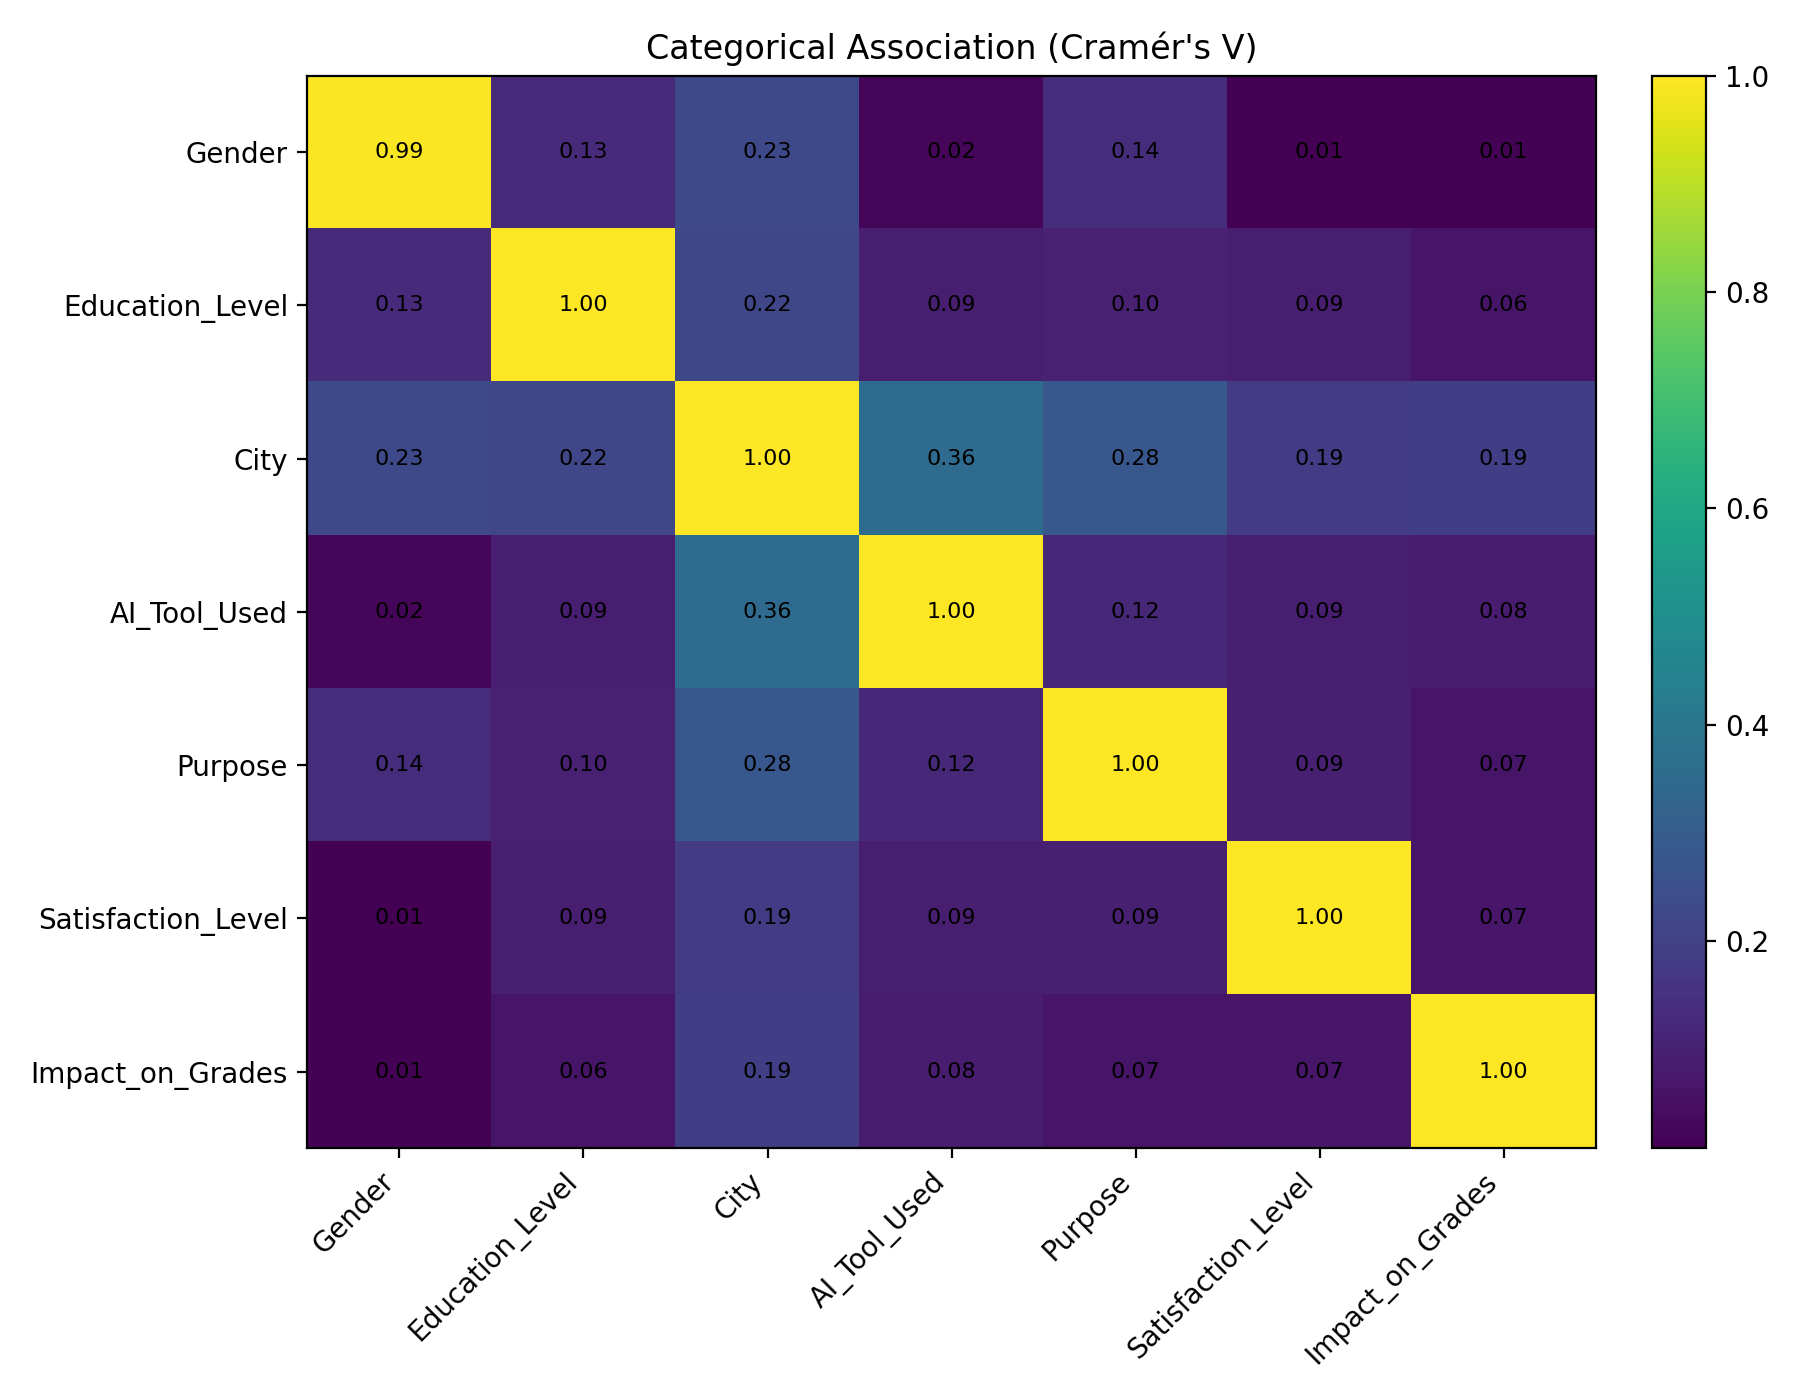
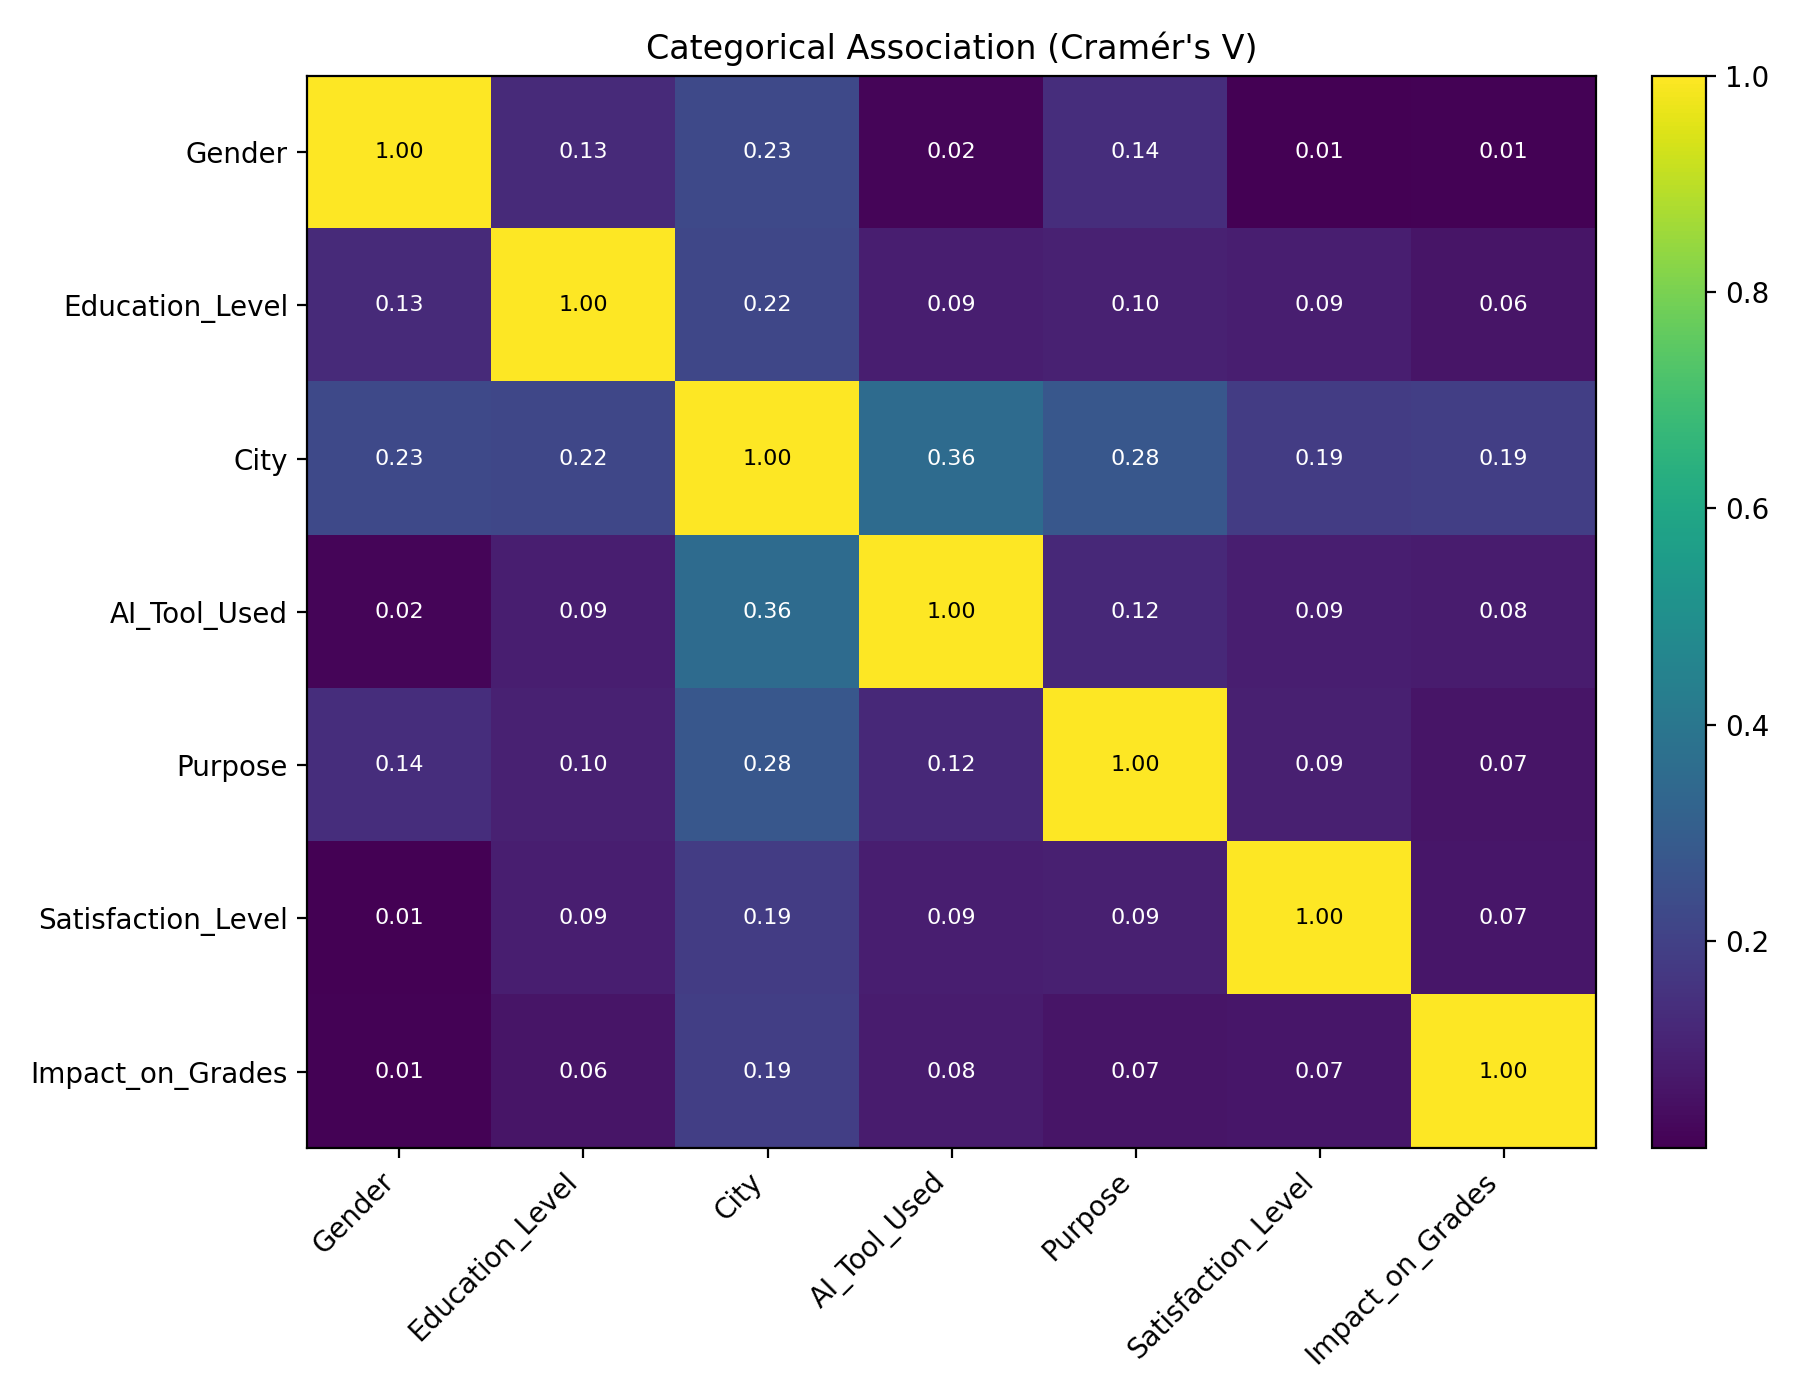
Fix Cramér's V for 2x2 tables and expand README with EDA plots
chi2_contingency applies Yates' correction by default, which pulled
Gender vs Gender to 0.99. Also make heatmap labels readable on dark
cells and keep stacked bar labels horizontal.

diff --git a/ai_student_life.py b/ai_student_life.py
@@ -89,7 +89,8 @@ def save_fig(name):
 
 def cramers_v(x, y):
     table = pd.crosstab(x, y)
-    chi2 = chi2_contingency(table)[0]
+    # Yates' correction would pull 2x2 tables (e.g. Gender vs Gender) below 1.
+    chi2 = chi2_contingency(table, correction=False)[0]
     n = table.to_numpy().sum()
     r, k = table.shape
     if min(r, k) == 1:
@@ -129,7 +130,7 @@ def stacked_impact_plot(df, column, title, filename):
     table = pd.crosstab(df[column], df[TARGET], normalize="index").round(3)
     table.to_csv(OUT_DIR / f"impact_by_{filename}_normalized.csv")
 
-    ax = table.plot(kind="bar", stacked=True, figsize=(9, 5))
+    ax = table.plot(kind="bar", stacked=True, figsize=(9, 5), rot=0)
     ax.set_title(title)
     ax.set_xlabel(column.replace("_", " "))
     ax.set_ylabel("Proportion")
@@ -171,7 +172,9 @@ def run_eda(df):
     plt.yticks(range(len(cols)), cols)
     for i in range(len(cols)):
         for j in range(len(cols)):
-            plt.text(j, i, f"{assoc.iat[i, j]:.2f}", ha="center", va="center", fontsize=8)
+            v = assoc.iat[i, j]
+            plt.text(j, i, f"{v:.2f}", ha="center", va="center", fontsize=8,
+                     color="black" if v > 0.5 else "white")
     plt.title("Categorical Association (Cramér's V)")
     save_fig("categorical_association_matrix_cramers_v.png")
 

diff --git a/README.md b/README.md
@@ -17,6 +17,24 @@ Kısaca sonuç: modeller rastgele tahminden belirgin şekilde iyi değil. Veri s
 
 Dosya adı "india" olsa da veri iki ayrı örneklemin birleşimi. İlk 300 satır Hindistan şehirlerinden geliyor. Son 100 satırın hepsi Pakistan şehirlerinden (Lahore, Karachi, Multan...) ve `Student_ID` bu satırlarda 1'den yeniden başlıyor. Bu yüzden 100 ID tekrarlıyor. `City` değişkeni dolaylı olarak "hangi örneklem" bilgisini de taşıyor. Mutual information sıralamasında Faisalabad ve Lahore'un üst sıralarda çıkmasının sebebi büyük ihtimalle bu.
 
+## Keşifsel analiz
+
+Modellemeden önce de tablo pek umut vermiyordu. Araçlara ve kullanım süresine göre sınıf oranları birbirine çok yakın:
+
+<p>
+  <img src="results/figures/impact_by_ai_tool_stacked.png" width="49%" alt="Araçlara göre etki">
+  <img src="results/figures/usage_hours_by_impact_boxplot.png" width="49%" alt="Kullanım süresine göre etki">
+</p>
+
+Notion AI kullananlarda "Improved" oranı daha yüksek (%47), Grammarly'de ise "Slight Decline" (%46). Ama bu iki grupta sadece 15 ve 24 öğrenci var; bu kadar küçük gruplarda birkaç öğrencinin sınıfı bile oranı ciddi şekilde oynatır. Kalabalık gruplar olan ChatGPT, Gemini ve Copilot (108–129 öğrenci) birbirine çok yakın. Günlük kullanım süresinin dağılımı üç sınıfta neredeyse aynı.
+
+<p>
+  <img src="results/figures/categorical_association_matrix_cramers_v.png" width="49%" alt="Cramér's V matrisi">
+  <img src="results/figures/feature_selection_mutual_information_top15.png" width="49%" alt="Mutual information">
+</p>
+
+Hedefle en yüksek ilişki `City`'de görünüyor (Cramér's V 0.19). Ancak bu değer kısmen yanıltıcı: 15 kategorili bir değişkende düzeltilmemiş Cramér's V yukarı doğru yanlı oluyor. Üstüne, yukarıda anlatıldığı gibi `City` hangi örneklemden gelindiğini de gösteriyor. Diğer değişkenlerin hepsi 0.1'in altında.
+
 ## Yöntem
 
 - **Ön işleme:** sayısal sütunlara `StandardScaler`, kategoriklere one-hot encoding. İkisi de `Pipeline` içinde, yani her fold'da yalnızca eğitim verisine fit ediliyor.
